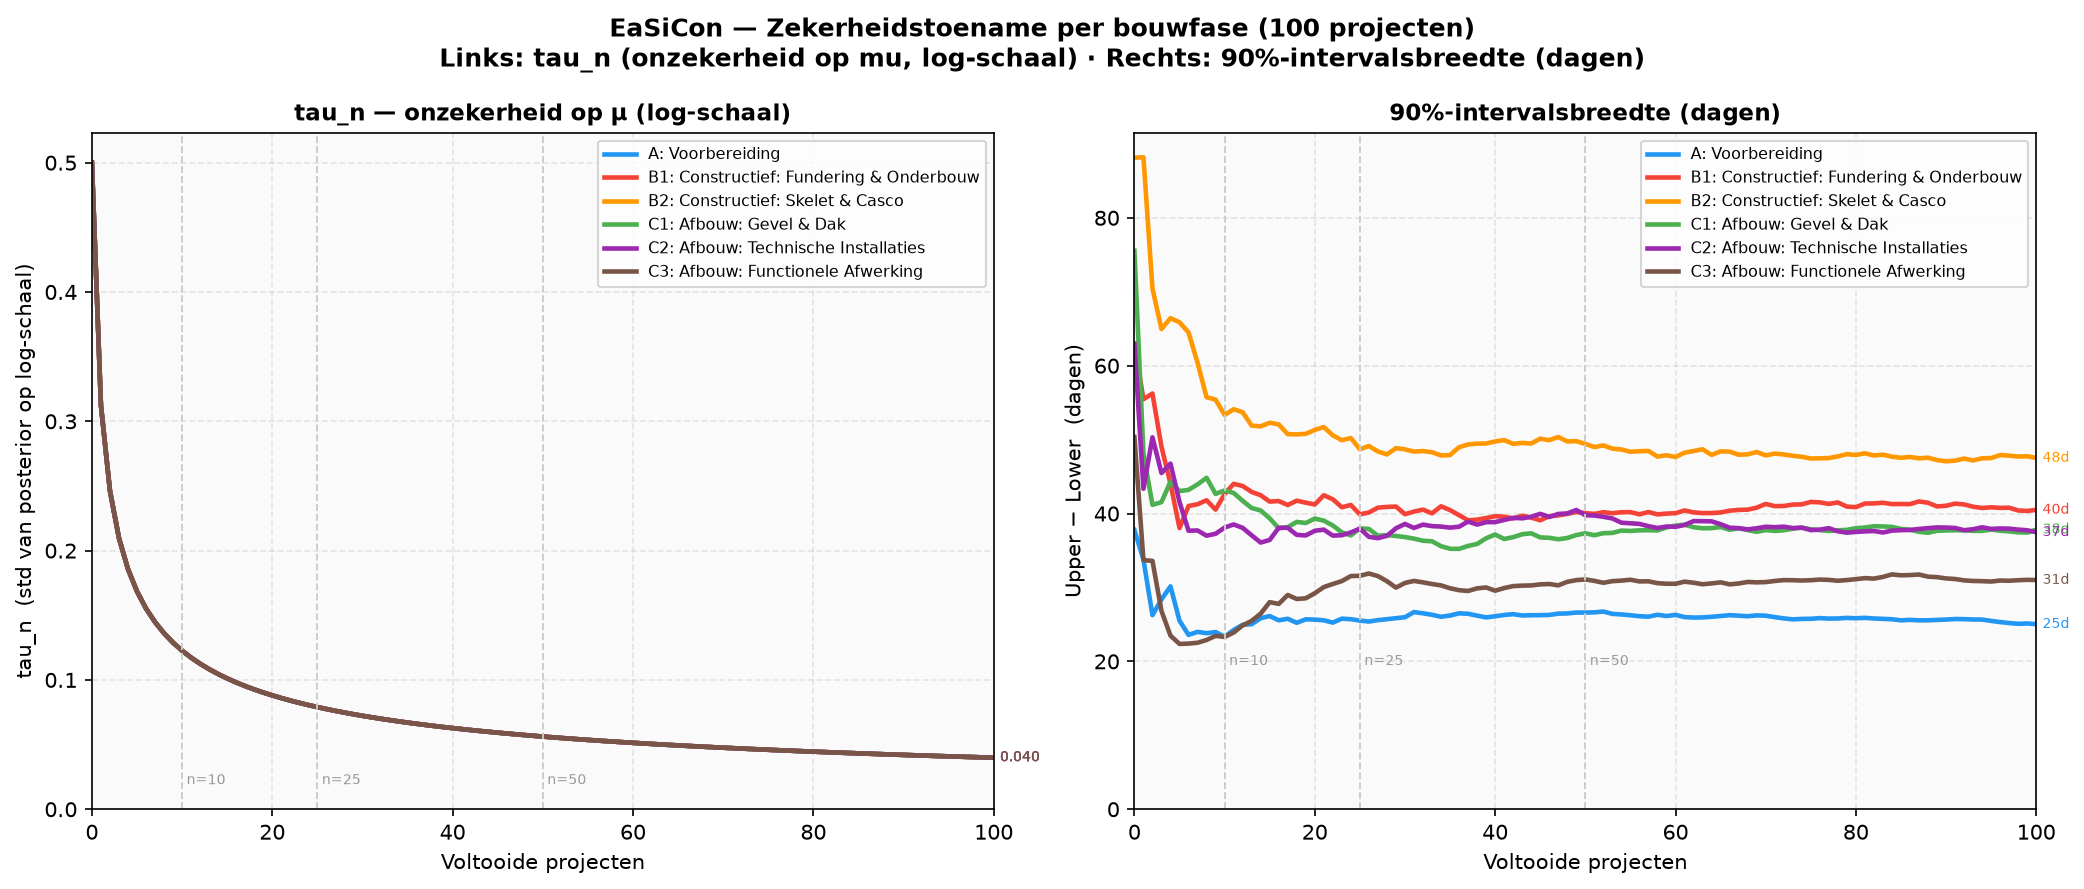
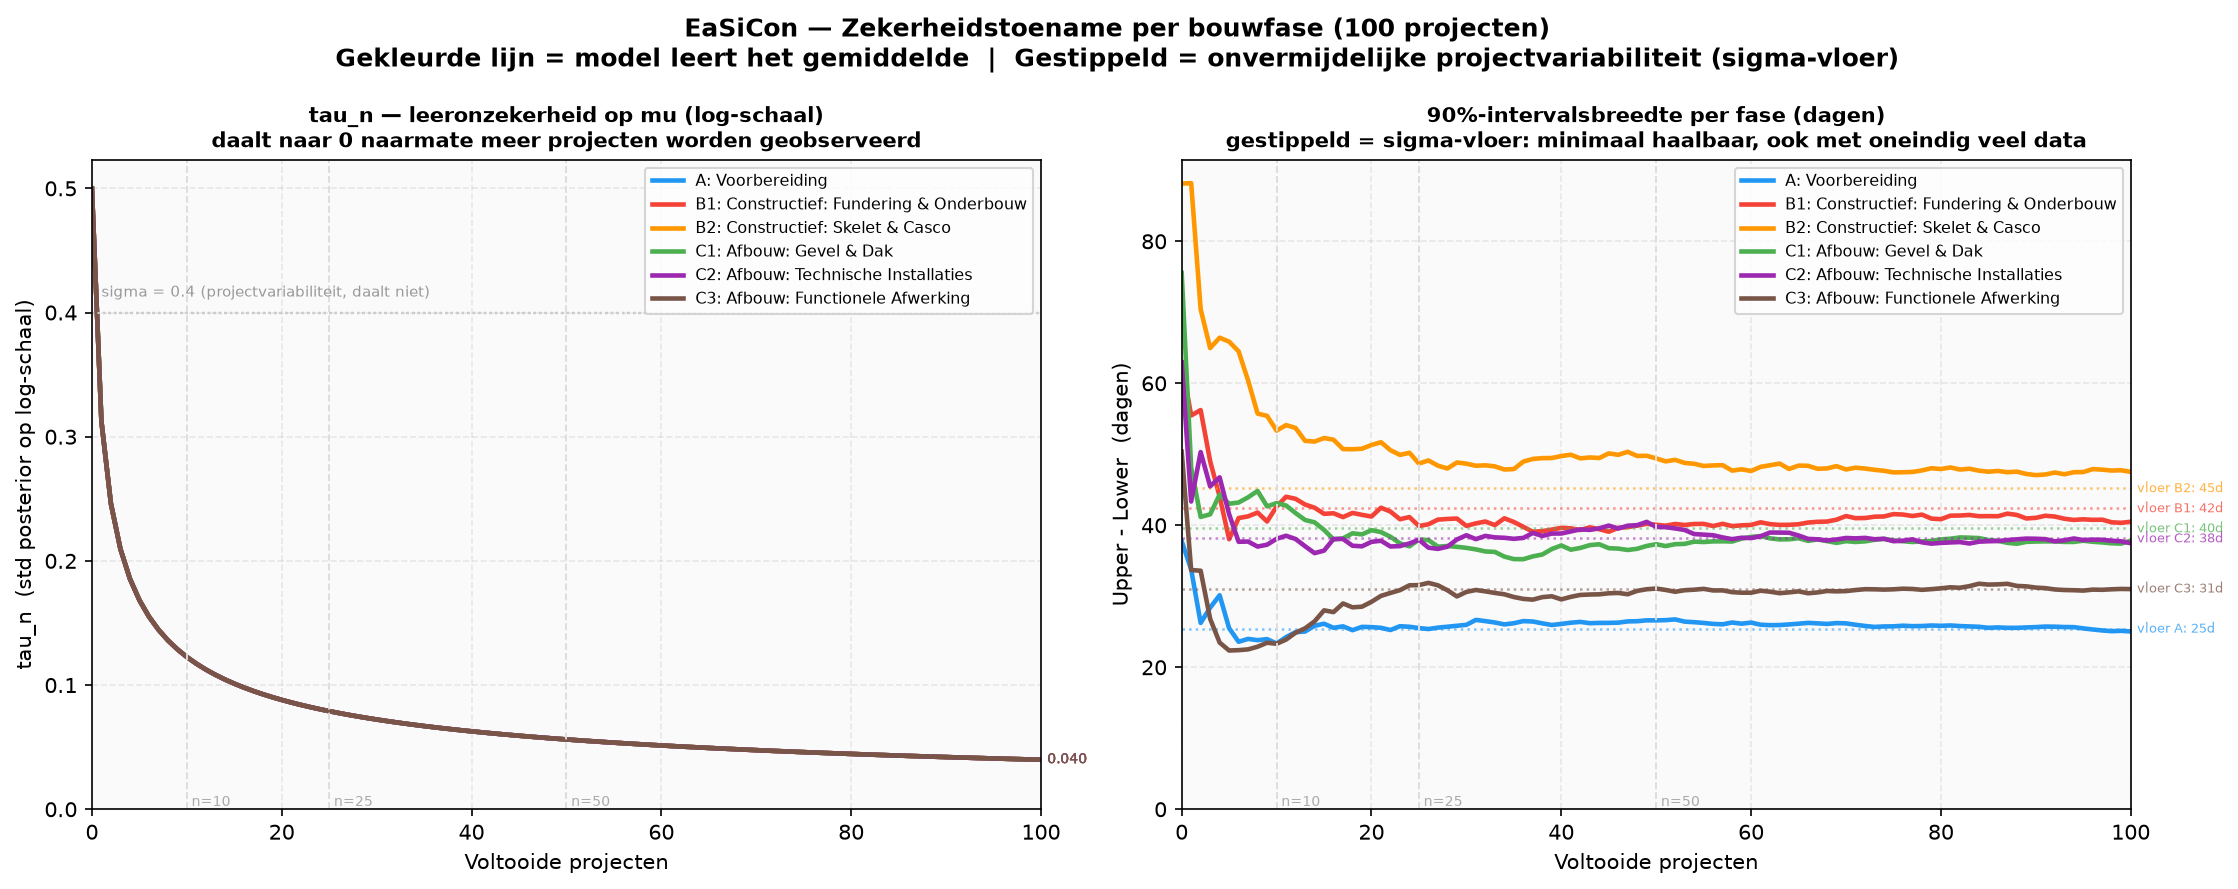
auto-save

diff --git a/easicon_model.py b/easicon_model.py
@@ -497,79 +497,109 @@ def maak_onzekerheidsgrafiek(modellen, n_projecten=100, bestandsnaam="easicon_ze
     Toont hoe de zekerheid per fase toeneemt na 0–100 projecten.
 
     Twee panelen:
-      Links  — tau_n (posterior std op log-schaal): daalt naarmate meer
-               projecten worden geobserveerd. Alle fases starten op tau_0 = 0.5.
-      Rechts — 90%-intervalsbreedte in dagen (upper − lower): vertaalt tau_n
-               naar meetbare onzekerheid voor planners.
+      Links  — tau_n daalt richting 0: model leert het gemiddelde steeds beter.
+               sigma (= SIGMA_LOG) is de onvermijdelijke projectvariabiliteit —
+               die blijft altijd bestaan en wordt getoond als horizontale lijn.
+      Rechts — 90%-intervalsbreedte in dagen. De gestippelde "sigma-vloer" toont
+               de minimaal haalbare breedte: zelfs met oneindige data blijft die
+               bestaan door inherente projectvariabiliteit (sigma).
 
-    Parameters
-    ----------
-    modellen     : dict {fase_code: BayesianesFaseModel}
-    n_projecten  : int — simulatielengte
-    bestandsnaam : str — pad voor de opgeslagen afbeelding
+    De vloer per fase = exp(ware_mu) * (exp(1.645*sigma) - exp(-1.645*sigma))
+    = het interval bij tau_n=0, alleen nog bepaald door sigma.
     """
-    fig, (ax_tau, ax_breedte) = plt.subplots(1, 2, figsize=(14, 6))
+    fig, (ax_tau, ax_breedte) = plt.subplots(1, 2, figsize=(15, 6))
 
     fig.suptitle(
         f"EaSiCon — Zekerheidstoename per bouwfase ({n_projecten} projecten)\n"
-        "Links: tau_n (onzekerheid op mu, log-schaal) · "
-        "Rechts: 90%-intervalsbreedte (dagen)",
+        "Gekleurde lijn = model leert het gemiddelde  |  "
+        "Gestippeld = onvermijdelijke projectvariabiliteit (sigma-vloer)",
         fontsize=12, fontweight="bold",
     )
 
-    # Markeer n=10, 25, 50 in beide panelen
     milestones = [10, 25, 50]
 
     for i, (fase_code, model) in enumerate(modellen.items()):
-        config = FASE_INSTELLINGEN[fase_code]
-        kleur  = config["kleur"]
-        label  = f"{fase_code}: {config['naam']}"
+        config    = FASE_INSTELLINGEN[fase_code]
+        kleur     = config["kleur"]
+        ware_mu   = config["ware_mu"]
+        label     = f"{fase_code}: {config['naam']}"
 
         resultaat = voer_convergentie_experiment_uit(
-            model, config["ware_mu"], SIGMA_LOG, n_projecten, seed=42 + i
+            model, ware_mu, SIGMA_LOG, n_projecten, seed=42 + i
         )
 
-        x             = np.arange(n_projecten + 1)
-        tau           = resultaat["tau"]
-        breedte       = resultaat["upper"] - resultaat["lower"]
+        x       = np.arange(n_projecten + 1)
+        tau     = resultaat["tau"]
+        breedte = resultaat["upper"] - resultaat["lower"]
 
+        # Sigma-vloer: minimale intervalsbreedte bij tau_n = 0
+        # (alleen nog inherente projectvariabiliteit)
+        sigma_floor_breedte = (
+            np.exp(ware_mu + 1.645 * SIGMA_LOG)
+            - np.exp(ware_mu - 1.645 * SIGMA_LOG)
+        )
+
+        # --- Linkerpaneel: tau_n ---
         ax_tau.plot(x, tau, color=kleur, linewidth=2.2, label=label)
-        ax_breedte.plot(x, breedte, color=kleur, linewidth=2.2, label=label)
+        # sigma als vaste horizontale lijn (het niveau dat tau nooit onderschrijdt)
+        ax_tau.axhline(SIGMA_LOG, color="#CCCCCC", linestyle=":", linewidth=1.0)
 
-        # Annoteer eindwaarde (n=100)
+        # Annoteer eindwaarde
         ax_tau.annotate(
             f"{tau[-1]:.3f}",
             xy=(n_projecten, tau[-1]),
             fontsize=6.5, color=kleur,
             xytext=(3, 0), textcoords="offset points", va="center",
         )
+
+        # --- Rechterpaneel: intervalsbreedte ---
+        ax_breedte.plot(x, breedte, color=kleur, linewidth=2.2, label=label)
+        # Sigma-vloer als gestippelde horizontale lijn
+        ax_breedte.axhline(
+            sigma_floor_breedte, color=kleur, linestyle=":",
+            linewidth=1.2, alpha=0.55,
+        )
+        # Annoteer vloer rechts van de grafiek
         ax_breedte.annotate(
-            f"{breedte[-1]:.0f}d",
-            xy=(n_projecten, breedte[-1]),
-            fontsize=6.5, color=kleur,
+            f"vloer {fase_code}: {sigma_floor_breedte:.0f}d",
+            xy=(n_projecten, sigma_floor_breedte),
+            fontsize=6.0, color=kleur, alpha=0.75,
             xytext=(3, 0), textcoords="offset points", va="center",
         )
 
         model.reset()
 
+    # Sigma-label linkerpaneel
+    ax_tau.text(
+        1, SIGMA_LOG + 0.01,
+        f"sigma = {SIGMA_LOG} (projectvariabiliteit, daalt niet)",
+        fontsize=7, color="#999999", va="bottom",
+    )
+
     for ax in (ax_tau, ax_breedte):
         for m in milestones:
-            ax.axvline(m, color="#CCCCCC", linestyle="--", linewidth=0.9)
-            ax.text(m + 0.5, ax.get_ylim()[0] if ax.get_ylim()[0] > 0 else 0,
-                    f"n={m}", fontsize=6.5, color="#999999", va="bottom")
+            ax.axvline(m, color="#DDDDDD", linestyle="--", linewidth=0.9)
+            ax.text(m + 0.5, 0, f"n={m}", fontsize=6.5, color="#AAAAAA", va="bottom")
         ax.set_xlabel("Voltooide projecten", fontsize=10)
         ax.legend(fontsize=7.5, loc="upper right")
-        ax.grid(True, alpha=0.3, linestyle="--")
+        ax.grid(True, alpha=0.25, linestyle="--")
         ax.set_facecolor("#FAFAFA")
         ax.set_xlim(0, n_projecten)
+        ax.set_ylim(bottom=0)
 
-    ax_tau.set_title("tau_n — onzekerheid op μ (log-schaal)", fontsize=11, fontweight="bold")
-    ax_tau.set_ylabel("tau_n  (std van posterior op log-schaal)", fontsize=10)
-    ax_tau.set_ylim(bottom=0)
+    ax_tau.set_title(
+        "tau_n — leeronzekerheid op mu (log-schaal)\n"
+        "daalt naar 0 naarmate meer projecten worden geobserveerd",
+        fontsize=10, fontweight="bold",
+    )
+    ax_tau.set_ylabel("tau_n  (std posterior op log-schaal)", fontsize=10)
 
-    ax_breedte.set_title("90%-intervalsbreedte (dagen)", fontsize=11, fontweight="bold")
-    ax_breedte.set_ylabel("Upper − Lower  (dagen)", fontsize=10)
-    ax_breedte.set_ylim(bottom=0)
+    ax_breedte.set_title(
+        "90%-intervalsbreedte per fase (dagen)\n"
+        "gestippeld = sigma-vloer: minimaal haalbaar, ook met oneindig veel data",
+        fontsize=10, fontweight="bold",
+    )
+    ax_breedte.set_ylabel("Upper - Lower  (dagen)", fontsize=10)
 
     plt.tight_layout()
     plt.savefig(bestandsnaam, dpi=150, bbox_inches="tight")
